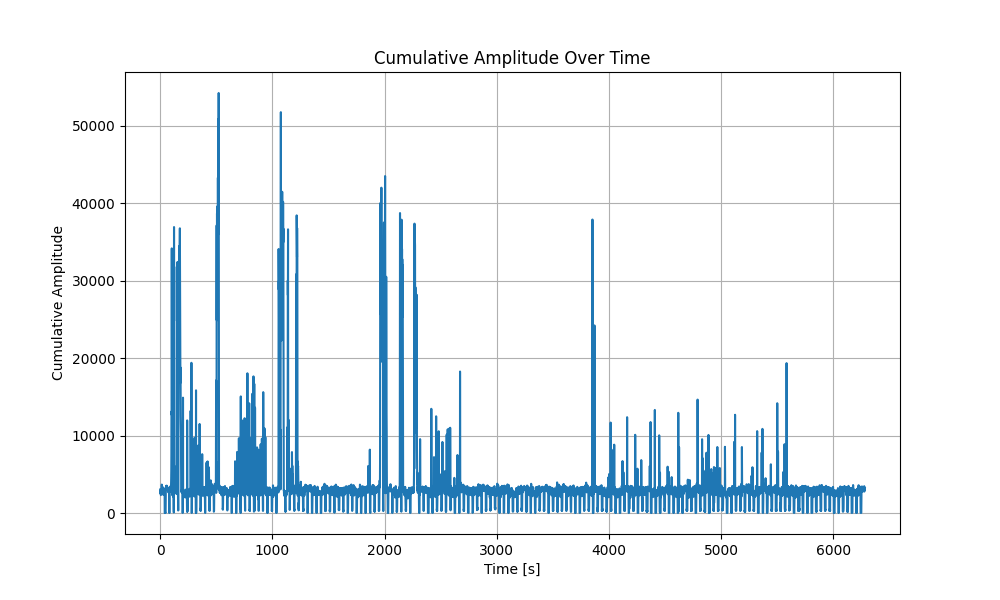
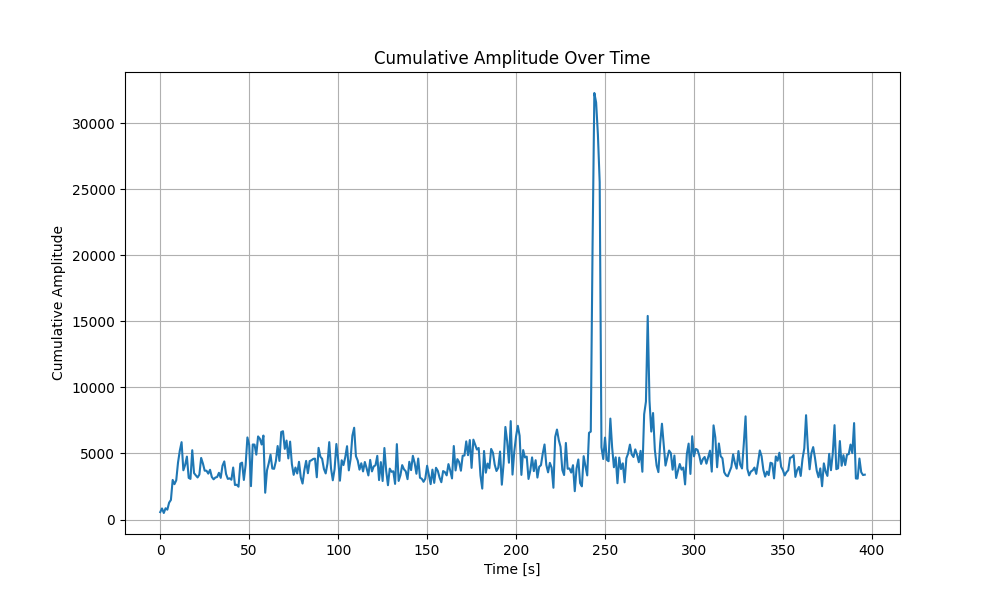
1984

diff --git a/cereal.py b/cereal.py
@@ -7,6 +7,7 @@ import numpy as np
 import matplotlib.pyplot as plt
 
 second = 8900
+last_offset = 0
 
 def plot_spectrogram(data, sampling_rate):
     data = np.array(data)
@@ -23,21 +24,21 @@ def plot_spectrogram(data, sampling_rate):
 def plot_cumulative_amplitude(Sxx):
     # Calculate the cumulative amplitude by summing across frequencies
     cumulative_amplitude = np.sum(Sxx, axis=0)
-    binary = np.where(cumulative_amplitude > 7000, cumulative_amplitude, 0)
+    binary = np.where(cumulative_amplitude > 6500, 1, 0)
 
         # Plot the cumulative amplitude
-    # plt.figure(figsize=(10, 6))
-    # plt.plot(cumulative_amplitude)
-    # plt.title('Cumulative Amplitude Over Time')
-    # plt.xlabel('Time [s]')
-    # plt.ylabel('Cumulative Amplitude')
-    # plt.grid(True)
-    # plt.savefig(f"cumulative_amplitude_thing.png")
+    plt.figure(figsize=(10, 6))
+    plt.plot(cumulative_amplitude)
+    plt.title('Cumulative Amplitude Over Time')
+    plt.xlabel('Time [s]')
+    plt.ylabel('Cumulative Amplitude')
+    plt.grid(True)
+    plt.savefig(f"cumulative_amplitude_thing.png")
 
 
-    return binary
+    return binary, cumulative_amplitude
 
-def find_clustered_ones(binary_array):
+def find_clustered_ones(binary_array, orig_data):
     # Find the difference between consecutive elements
     diff = np.diff(binary_array)
     
@@ -47,8 +48,9 @@ def find_clustered_ones(binary_array):
     if binary_array[0] == 1:
         clustered_indices = np.insert(clustered_indices, 0, 0)
     
-    print(clustered_indices)
-    return [(e,binary_array[e]) for e in clustered_indices]
+    #print(clustered_indices)
+    pairs = [(e,orig_data[e]) for e in clustered_indices]
+    return pairs
     #return clustered_indices
 
 def morse_like_encoding(indices, dash_threshold=4400, new_char_threshold=8900*2):
@@ -104,15 +106,23 @@ with open(filename, 'wb') as file:  # Changed to binary mode
             for i in data.decode("utf-8").split("\n"):
                 if i.strip():
                     data_list.append(int(i.strip()))
+                    #print(data_list[-1])
                     counter+=1
-                    if len(data_list) > 89000 == 0:
+                    if len(data_list) > 89000:
                         del data_list[0]
         
-        if counter > 8900:
+        if counter > 89000:
             counter = 0
-            morse_ouput = morse_like_encoding(find_clustered_ones(plot_cumulative_amplitude(plot_spectrogram(data_list, 8900))),
-                                dash_threshold=8900/2,new_char_threshold=8900*2)
-            print(morse_ouput)
+            print(len(data_list))
+            spectrogram_data = plot_spectrogram(data_list, 8900)
+            amplitude, cumulative_amplitude = plot_cumulative_amplitude(spectrogram_data)
+            clustered = find_clustered_ones(amplitude, cumulative_amplitude)
+            # morse_ouput = morse_like_encoding(find_clustered_ones(amplitude),
+            #                     dash_threshold=8900/2,new_char_threshold=8900*2)
+
+
+            last_offset = len(spectrogram_data) - clustered[-1][0] if clustered else 0
+            print(clustered)
 
 
     ser.close()
